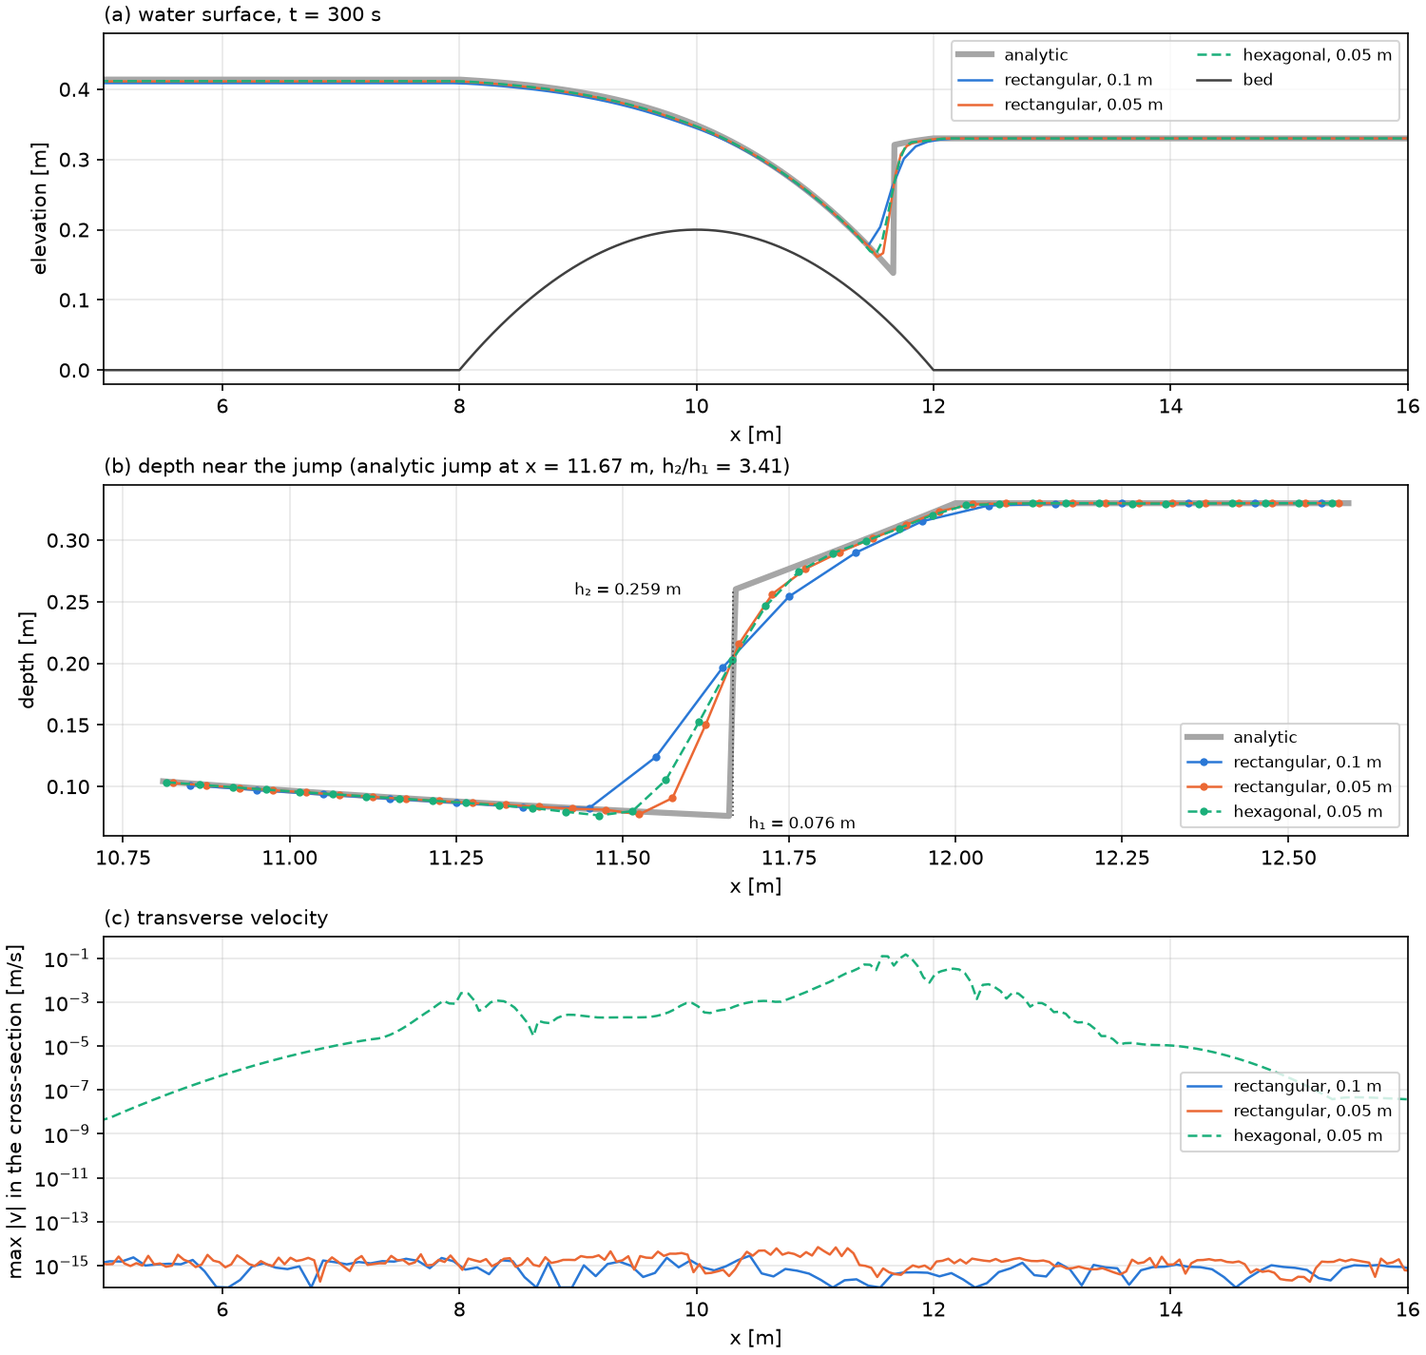
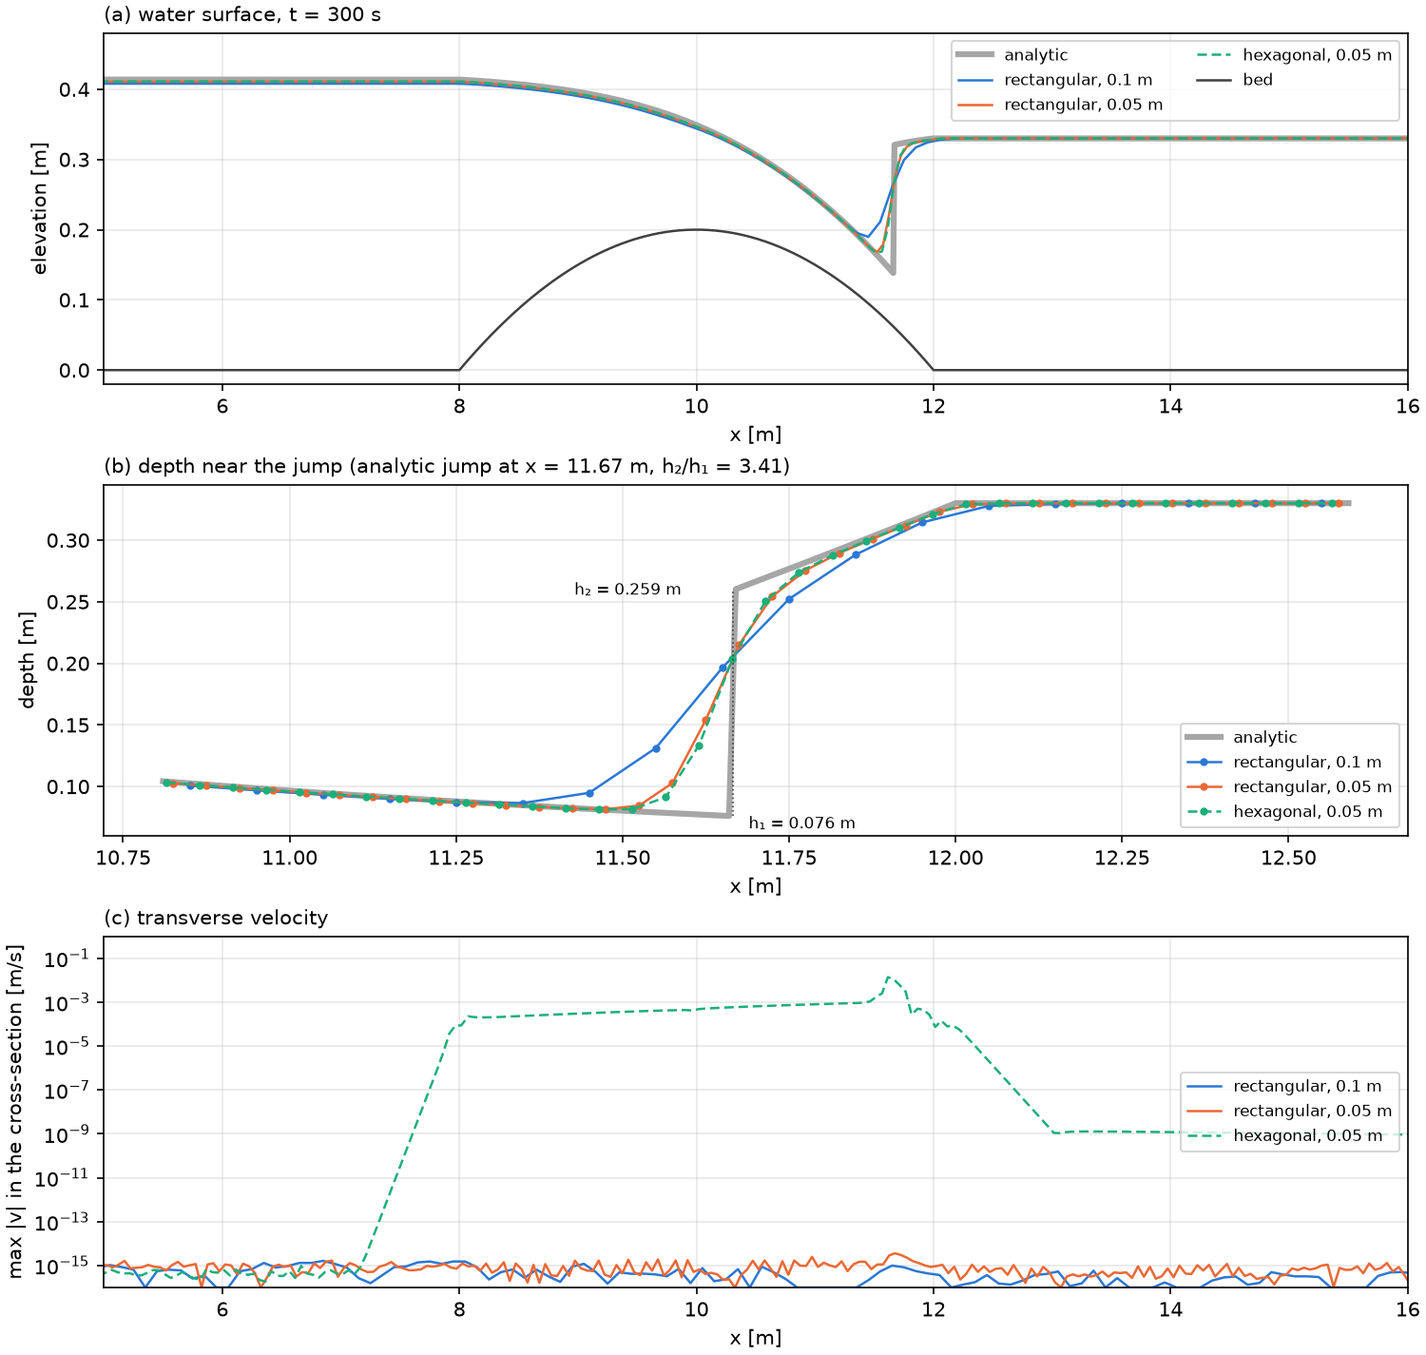
test(verification): include the hexagonal layout in V07
With the face velocity relaxed toward the upwind velocity, the hydraulic
jump over the bump becomes steady on the hexagonal layout as well: the
jump lies within half a cell of the analytic position, the depths 0.4 m
before and after it are within 0.6 %, and the transverse velocity stays
at 0.014 m/s instead of growing to 0.15 m/s. Add the 0.05 m hexagonal
grid to the V07 criteria and replace the figure.

Claude-Session: https://claude.ai/code/session_0163QpRb6tc7Fv4S6eEipgMW

diff --git a/tests/verification.rs b/tests/verification.rs
@@ -1037,18 +1037,15 @@ level = {H_DOWNSTREAM:?}
 /// SWASHES（Delestre et al., 2013）の §3.1.5 と同じ条件（延長 25 m、こぶの高さ 0.2 m、
 /// q = 0.18 m²/s、下流端の水深 0.33 m、摩擦なし）で、こぶの頂部で常流から射流に変わり、
 /// 下流側で跳水して常流に戻る流れを、幅 0.2 m の水路で 300 s 解く。格子は正方形配置の
-/// 0.1 m と 0.05 m。次を確かめる。
+/// 0.1 m と 0.05 m、六角形配置の 0.05 m（0.1 m では幅 0.2 m に 2 行しかないので除く）。
+/// 次を確かめる。
 ///
 /// - 定常になっている：下流端の流出量と上流端の流入量の差が 0.1% 以下
 /// - 跳水の位置（水深が共役水深の平均を上回る位置）の誤差が格子幅の 2 倍以下
 /// - 跳水の直前と直後（解析解の跳水の位置から 0.4 m 上流・下流。なまった跳水の外側）の
-///   水深の誤差が 2% 以下
-///   （解析解の共役水深の比 h₂/h₁ = 3.41 は Bélanger の式を満たす）
-/// - 跳水の近く（格子幅の 3 倍以内）を除く水深の誤差の最大値が 4% 以下で、格子を細かくすると
-///   減る
-///
-/// 六角形配置では、跳水の位置で側壁沿いに横断方向の流れが生じて定常にならないので、
-/// 合格基準には含めない（`docs/verification.md`）。
+///   水深の誤差が 2% 以下（解析解の共役水深の比 h₂/h₁ = 3.41 は Bélanger の式を満たす）
+/// - 跳水の近く（格子幅の 3 倍以内）を除く水深の誤差の最大値が 4% 以下で、正方形配置では
+///   格子を細かくすると減る
 #[test]
 fn v07_hydraulic_jump() {
     let x_s = bump_jump::jump_position();
@@ -1060,12 +1057,16 @@ fn v07_hydraulic_jump() {
         bump_jump::critical_depth()
     );
     let mut previous_max = f64::INFINITY;
-    for cell_size in [0.1, 0.05] {
-        let layout = ChannelLayout::Rectangular;
+    for (layout, cell_size) in [
+        (ChannelLayout::Rectangular, 0.1),
+        (ChannelLayout::Rectangular, 0.05),
+        (ChannelLayout::Hexagonal, 0.05),
+    ] {
+        let name = format!("{layout:?}, {cell_size} m");
         let case = format!("v07_{}_{cell_size}m", format!("{layout:?}").to_lowercase());
         let run = bump_jump_run(layout, cell_size, 300.0, &case);
         println!(
-            "V07 {layout:?}, {cell_size} m: jump at {:.3} m (error {:+.3} m = {:+.1} dx), \
+            "V07 {name}: jump at {:.3} m (error {:+.3} m = {:+.1} dx), \
              depth error {:+.2}% before / {:+.2}% after the jump, \
              max {:.2}% at x = {:.2} m, outflow / inflow − 1 = {:.1e}, max |v| {:.1e} m/s",
             run.jump,
@@ -1080,40 +1081,34 @@ fn v07_hydraulic_jump() {
         );
         assert!(
             run.discharge_error.abs() <= 1e-3,
-            "{cell_size} m: not steady ({:e})",
+            "{name}: not steady ({:e})",
             run.discharge_error
         );
         assert!(
             (run.jump - x_s).abs() <= 2.0 * cell_size,
-            "{cell_size} m: jump at {} m, exact {x_s} m",
+            "{name}: jump at {} m, exact {x_s} m",
             run.jump
         );
         assert!(
             run.before.abs() <= 0.02 && run.after.abs() <= 0.02,
-            "{cell_size} m: depth error {} before / {} after the jump",
+            "{name}: depth error {} before / {} after the jump",
             run.before,
             run.after
         );
         assert!(
-            run.max_error.0 <= 0.04 && run.max_error.0 < previous_max,
-            "{cell_size} m: max depth error {} at {} m",
+            run.max_error.0 <= 0.04,
+            "{name}: max depth error {} at {} m",
             run.max_error.0,
             run.max_error.1
         );
-        previous_max = run.max_error.0;
-    }
-    if output_root().is_some() {
-        // 図のために六角形配置も計算する（合格基準には含めない）
-        let run = bump_jump_run(ChannelLayout::Hexagonal, 0.05, 300.0, "v07_hexagonal_0.05m");
-        println!(
-            "V07 Hexagonal, 0.05 m (for the figure): jump at {:.3} m, depth error {:+.2}% before / \
-             {:+.2}% after the jump, outflow / inflow − 1 = {:.1e}, max |v| {:.1e} m/s",
-            run.jump,
-            100.0 * run.before,
-            100.0 * run.after,
-            run.discharge_error,
-            run.max_v
-        );
+        if layout == ChannelLayout::Rectangular {
+            assert!(
+                run.max_error.0 < previous_max,
+                "{name}: max depth error {} does not decrease",
+                run.max_error.0
+            );
+            previous_max = run.max_error.0;
+        }
     }
 }
 

diff --git a/docs/verification.md b/docs/verification.md
@@ -24,7 +24,7 @@ cargo test --test verification v06      # 1ケースだけ
 | V04 | 閉鎖水域の振動 | 質量保存、負の水深が出ないこと、Thacker の解析解との比較 | 体積の相対誤差 $10^{-10}$ 以下、全ステップで全セル（乾いたセルを含む）の連続式の残差が Newton 法の判定値以下、水塊の重心の誤差が 1周期後 0.12 m・3周期後 0.25 m 以下、水深の L1 誤差が 1周期後 20%・3周期後 40% 以下（確定） | `v04_closed_basin_oscillation` | ✅ |
 | V05 | ダム破壊 | Ritter / Stoker の解析解との比較 | 水深の L1 誤差が格子を細かくするたびに減り、平均の収束次数 0.5 以上、最も細かい格子で Stoker 0.5%・Ritter 0.7% 以下、Stoker の衝撃波の位置の誤差が格子幅の 2 倍以下、Ritter の先端の遅れが格子を細かくするたびに減る（確定） | `v05_dam_break` | ✅ |
 | V06 | 等流 | マニング式の等流水深に一致すること | 中央部の水深の相対誤差 $10^{-4}$ 以内（確定） | `v06_uniform_flow` | ✅ |
-| V07 | 跳水 | 共役水深と跳水位置 | こぶを越える流れ（正方形配置）で、定常、跳水の位置の誤差が格子幅の 2 倍以下、跳水の直前と直後の水深の誤差 2% 以下、それ以外の水深の誤差 4% 以下で格子を細かくすると減る（確定） | `v07_hydraulic_jump` | ✅ |
+| V07 | 跳水 | 共役水深と跳水位置 | こぶを越える流れ（正方形配置・六角形配置）で、定常、跳水の位置の誤差が格子幅の 2 倍以下、跳水の直前と直後の水深の誤差 2% 以下、それ以外の水深の誤差 4% 以下（正方形配置では格子を細かくすると減る）（確定） | `v07_hydraulic_jump` | ✅ |
 | V08 | トレンチ移動 | 浮遊砂の検証 | トレンチの移動速度と形状（比較対象は実装時に選定） | `v08_trench_migration` | 📋 |
 | V09 | 交互砂州 | 波長と波高 | 既往の実験・線形安定解析との比較 | `v09_alternate_bars` | 📋 |
 | V10 | 湾曲水路の河床変動 | 外岸側の洗掘 | 横断形状を既往の実験と比較 | `v10_bend_scour` | 📋 |
@@ -110,18 +110,18 @@ cargo test --test verification v06      # 1ケースだけ
   - 流れは、こぶの頂部で常流から射流に変わり（限界水深 $h_c$ = 0.149 m）、こぶの下流側の斜面で跳水して常流に戻ります。
 - 解析解は、跳水の上流ではこぶの頂部で限界流となる全水頭、下流では下流端の全水頭のベルヌーイの式から求めます。跳水の位置は、射流側の水深 $h_1$ と常流側の水深 $h_2$ が運動量の釣り合い（Bélanger の式 $h_2/h_1 = \left(\sqrt{1 + 8 Fr_1^2} - 1\right)/2$）を満たす位置で、$x_s$ = 11.67 m、$h_1$ = 0.076 m、$h_2$ = 0.259 m（$Fr_1$ = 2.74、$h_2/h_1$ = 3.41）です。
 - 1次元の流れを、幅 0.2 m・側壁が滑り条件の水路で解きます。
-  - 格子は正方形配置の 0.1 m と 0.05 m です。
+  - 格子は正方形配置の 0.1 m と 0.05 m、六角形配置の 0.05 m です（六角形配置の 0.1 m は、幅 0.2 m に 2 行しかないので除きます）。
   - 初期条件は水位 0.33 m・流速 0、300 s 進めます。
   - 時間刻みは、跳水の直前の流速（約 2.4 m/s）に対するクーラン数が 0.5 になる値です。
 - 次を確かめます。
   - 定常になっていること：下流端の流出量と上流端の流入量の差が 0.1% 以下
   - 跳水の位置（$x$ 方向に平均した水深が $(h_1 + h_2)/2$ を上回る位置）の誤差が、格子幅の 2 倍以下であること
   - 跳水の直前と直後（解析解の跳水の位置から 0.4 m 上流・下流。粗い格子の4セル分で、なまった跳水の外側）の水深の誤差が 2% 以下であること。共役水深の関係（Bélanger の式）を、跳水の両側で確かめることにあたります。当初は 0.3 m でしたが、[ADR-0009](design/adr/0009-advection-face-velocity.md) の移流で跳水の始まりが1セルぶん広くなったので移しました
-  - 跳水の近く（跳水の位置から格子幅の 3 倍以内）を除く水深の誤差の最大値が 4% 以下で、格子を細かくすると減ること
+  - 跳水の近く（跳水の位置から格子幅の 3 倍以内）を除く水深の誤差の最大値が 4% 以下で、正方形配置では格子を細かくすると減ること
 - 合格基準の根拠：
-  - 1次元の定常流では、移流と水位勾配の離散式が $q u + g h^2/2$ を保存するので、跳水の両側の状態は離散式の上でも Bélanger の式を満たします（[ADR-0008](design/adr/0008-advection-discretization.md)）。残る誤差は、跳水の前後の斜面と頂部の近くの、1次精度の誤差です。
+  - 1次元の定常流では、移流と水位勾配の離散式が $q u + g h^2/2$ を保存するので、跳水の両側の状態は離散式の上でも Bélanger の式を満たします（[ADR-0008](design/adr/0008-advection-discretization.md)、[ADR-0009](design/adr/0009-advection-face-velocity.md)）。残る誤差は、跳水の前後の斜面と頂部の近くの、1次精度の誤差です。
   - 2% は、もとの合格基準の案（共役水深比が Bélanger の式と 2% 以内）を、斜面上の跳水に当てはめた値です。4% は、頂部の近くの最大の誤差の実測値（格子幅 0.1 m で 3.4%）に余裕を持たせた値です。
-- 六角形配置は合格基準に含めません。跳水の位置で側壁沿いに横断方向の流れが生じ、定常にならないためです（下の結果）。
+- 六角形配置は、当初は合格基準に含めていませんでした。跳水の位置に横断方向の流れが生じ、定常にならなかったためです。原因（セル中心の流速に現れない格子規模の辺の流速の成分）を [ADR-0009](design/adr/0009-advection-face-velocity.md) の移流で解消し、合格基準に加えました（下の結果）。
 
 ### V08〜V11 河床変動
 
@@ -305,9 +305,29 @@ uv run --project tools python tools/plot_verification.py v05 output/verification
 | 正方形配置、0.05 m | 11.638 m（−0.6Δx） | −0.50% ／ −0.38% | 1.84%（$x$ = 9.83 m） | −0.63% | $-2.5\times10^{-5}$ |
 | 六角形配置、0.05 m（参考） | 11.630 m | −2.06% ／ −0.63% | | −0.53% | $1.6\times10^{-4}$ |
 
+このときの図（六角形配置の横断方向の流れが見える）は、commit ce6f5fc の `docs/images/v07_hydraulic_jump.png` にあります。今の図は、下の「V07 跳水：六角形配置を含めた結果」のものに差し替えました。
+
+考察：
+
+- 正方形配置では、跳水の位置の誤差は格子幅の 0.6 倍で、跳水は2〜3セルの幅でなまります。跳水の直前と直後の水深は、格子幅 0.05 m で 0.5% 以内で解析解に一致しました。共役水深の関係が、斜面の上の跳水でも成り立っています。
+- 最大の誤差は、こぶの頂部の上流側（$x$ ≈ 9.8 m）にあります。上流の水深も解析解より低く出ます（0.1 m で −1.2%、0.05 m で −0.63%）。こぶの上で加速する流れを運動量保存形で解くと、エネルギー水頭の損失が出るためで、損失は格子幅にほぼ比例して減ります。加速流でのエネルギー水頭保存形への切り替え（[ADR-0003](design/adr/0003-conservative-upwind-advection.md)。ロードマップの「以降の候補」）で解消できる誤差です。
+- **六角形配置の問題（その後、解消）**：六角形配置では、跳水の位置に横断方向の流れ（0.15 m/s。主流は約 2.4 m/s）が生じ、600 s まで計算しても定常になりませんでした（一時的なテストで確認）。時間刻みを 1/5 にしても変わらないので、空間の離散化の性質です。
+  - 当初は、側壁沿いのセルの非対称な形が原因と推定していました。
+  - 調べた結果、本当の原因は、セル中心の流速に現れない格子規模の辺の流速の成分を、移流が運び去れないことでした。[ADR-0009](design/adr/0009-advection-face-velocity.md) の移流で解消しています（下の結果）。
+
+### V07 跳水：六角形配置を含めた結果（2026-11-06, commit COMMIT_V07B）
+
+[ADR-0009](design/adr/0009-advection-face-velocity.md) の移流（辺の流速を上流の流速へ近づける形）で、六角形配置を加えた結果です。`cargo test --release --test verification v07 -- --nocapture` の出力です（300 s 後）。
+
+| 格子 | 跳水の位置（解析解 11.666 m） | 跳水の直前／直後（±0.4 m）の水深の誤差 | 跳水の近くを除く最大の誤差（位置） | 流出量／流入量 − 1 | 横断方向の流速の最大値 [m/s] |
+|---|---|---|---|---|---|
+| 正方形配置、0.1 m | 11.606 m（−0.6Δx） | −0.72% ／ −0.68% | 3.61%（$x$ = 9.85 m） | $-2.6\times10^{-5}$ | $1.6\times10^{-15}$ |
+| 正方形配置、0.05 m | 11.636 m（−0.6Δx） | −0.66% ／ −0.07% | 1.94%（$x$ = 9.83 m） | $-2.6\times10^{-5}$ | $3.6\times10^{-15}$ |
+| 六角形配置、0.05 m | 11.639 m（−0.5Δx） | −0.57% ／ −0.06% | 1.67%（$x$ = 9.82 m） | $-2.5\times10^{-5}$ | $1.4\times10^{-2}$ |
+
 ![V07 の水面の縦断形、跳水の近くの水深、横断方向の流速](images/v07_hydraulic_jump.png)
 
-図は次の手順で作りました（VTK を書き出すときは、図のために六角形配置も計算します）。
+図は次の手順で作りました。
 
 ```bash
 VORMORPH_VERIFICATION_OUTPUT=output/verification \
@@ -318,14 +338,11 @@ uv run --project tools python tools/plot_verification.py v07 output/verification
 
 考察：
 
-- 正方形配置では、跳水の位置の誤差は格子幅の 0.6 倍で、跳水は2〜3セルの幅でなまります。跳水の直前と直後の水深は、格子幅 0.05 m で 0.5% 以内で解析解に一致しました。共役水深の関係が、斜面の上の跳水でも成り立っています。
-- 最大の誤差は、こぶの頂部の上流側（$x$ ≈ 9.8 m）にあります。上流の水深も解析解より低く出ます（0.1 m で −1.2%、0.05 m で −0.63%）。こぶの上で加速する流れを運動量保存形で解くと、エネルギー水頭の損失が出るためで、損失は格子幅にほぼ比例して減ります。加速流でのエネルギー水頭保存形への切り替え（[ADR-0003](design/adr/0003-conservative-upwind-advection.md)。ロードマップの「以降の候補」）で解消できる誤差です。
-- **六角形配置の未解決の問題**：六角形配置では、跳水の位置で側壁沿いの行に横断方向の流れ（0.15 m/s。主流は約 2.4 m/s）が生じ、600 s まで計算しても定常になりませんでした（一時的なテストで確認）。
-  - 時間刻みを 1/5 にしても変わらないので、空間の離散化の性質です。
-  - 正方形配置では、初期条件に横断方向の乱れを与えても減衰しました。
-  - 側壁沿いのセルは壁の側に斜めの辺がない非対称な形なので、法線流速が急に変わる跳水の位置で Perot 法の再構成に横断方向の成分が出て、それを移流が保っていると推定しています。
-  - 行が2つの格子（0.1 m、幅 0.2 m）では定常になり、横断方向の流れ 0.075 m/s が残りました。
-  - 跳水の位置と上流の水深は正方形配置とほぼ同じですが、床止めの例題（V11、六角形配置）の前に原因を調べて対策します（[overview.md](design/overview.md) の第8章）。
+- **六角形配置でも定常になりました。** 跳水の位置と、跳水の前後の水深は、正方形配置と同じ水準で解析解に一致しています。
+  - 横断方向の流速は、跳水の位置で $1.4\times10^{-2}$ m/s（主流の約 0.6%）、こぶの上で $10^{-3}$〜$10^{-4}$ m/s です。六角形の格子の形による誤差で、時間とともに増えません。
+  - 以前の移流（ADR-0008）では、0.15 m/s で定常になりませんでした。
+- 両側のセルの流速の平均を法線へ射影した値と辺の流速との差（RMS）は、六角形配置でも約 0.004 m/s のまま増えませんでした。以前の移流では 0.32 m/s まで増えていました（一時的なテストで計算。[ADR-0009](design/adr/0009-advection-face-velocity.md)）。
+- 正方形配置では、跳水の始まりが以前より1セルぶん広くなりました（図の (b) の格子幅 0.1 m）。辺の流速を上流の流速へ近づける項が、流速の2階差分（数値粘性）として働くためです。跳水の位置と、なまった跳水の外側での共役水深の関係は変わりません。
 
 ### V06 等流（2026-11-06, commit edc4b7f）
 

diff --git a/CHANGELOG.md b/CHANGELOG.md
@@ -52,4 +52,5 @@
 - 検証ケース V07（跳水）を実装。SWASHES と同じ条件のこぶを越える流れ（頂部で射流に変わり、下流側の斜面で跳水する）を正方形配置で解き、跳水の位置の誤差が格子幅の 0.6 倍、跳水の直前と直後の水深の誤差が格子幅 0.05 m で 0.5% 以内。図 `docs/images/v07_hydraulic_jump.png` と `tools/plot_verification.py v07`。六角形配置で跳水の位置に横断方向の流れが生じる問題を、未決事項として記録
 - 移流を入れた後の V03・V06 の結果を `docs/verification.md` に記録（どちらも同じ合格基準で通る）
 - 移流の「自分の流速」を、セル中心の流速の法線成分から辺の流速に変更（ADR-0009。ADR-0008 を一部置き換え）。辺の流速を上流の流速へ局所クーラン数の割合で近づける形になり、六角形配置で、セル中心の流速に現れない格子規模の辺の流速の成分が跳水にたまって横断方向の流れが生じる問題を解消。単体テストを、1次元の定常跳水の釣り合い（Bélanger の式）と、六角形配置の格子規模の乱れの減衰に置き換え。V07 の跳水の直前・直後の水深を確かめる位置を、跳水から 0.4 m に変更
+- V07 の合格基準に六角形配置（0.05 m）を加える。跳水の位置の誤差が格子幅の 0.5 倍、跳水の直前と直後の水深の誤差が 0.6% 以内で定常。図 `docs/images/v07_hydraulic_jump.png` を差し替え
 - ライセンス：MIT OR Apache-2.0

diff --git a/README.md b/README.md
@@ -236,7 +236,7 @@ vormorph/
 - [x] 格子：多角形の並びからの接続配列の組み立て、直線水路の生成、格子ファイルの読み込み、幾何の検査（V01）、Perot 再構成（V02）、VTK 出力
 - [x] 流れ：半陰解法と wet/dry（V03, V04）、流量・水位境界と摩擦（V06）
 - [x] 急変流：保存型風上差分（V05, V07）、V04 の解析解との比較
-- [ ] 六角形配置で、止まっている跳水の位置に生じる横断方向の流れの対策（V07 で判明。V11 の前に行う）
+- [x] 六角形配置で、止まっている跳水の位置に生じる横断方向の流れの対策（V07 で判明。移流で辺の流速を上流の流速へ近づける形にした。ADR-0009）
 - [ ] 河床変動：掃流砂・Exner 式・非侵食層、床止めの例題（V11）とヒーロー画像の差し替え
 - [ ] 浮遊砂（V08）
 - [ ] 交互砂州・湾曲水路（V09, V10）
